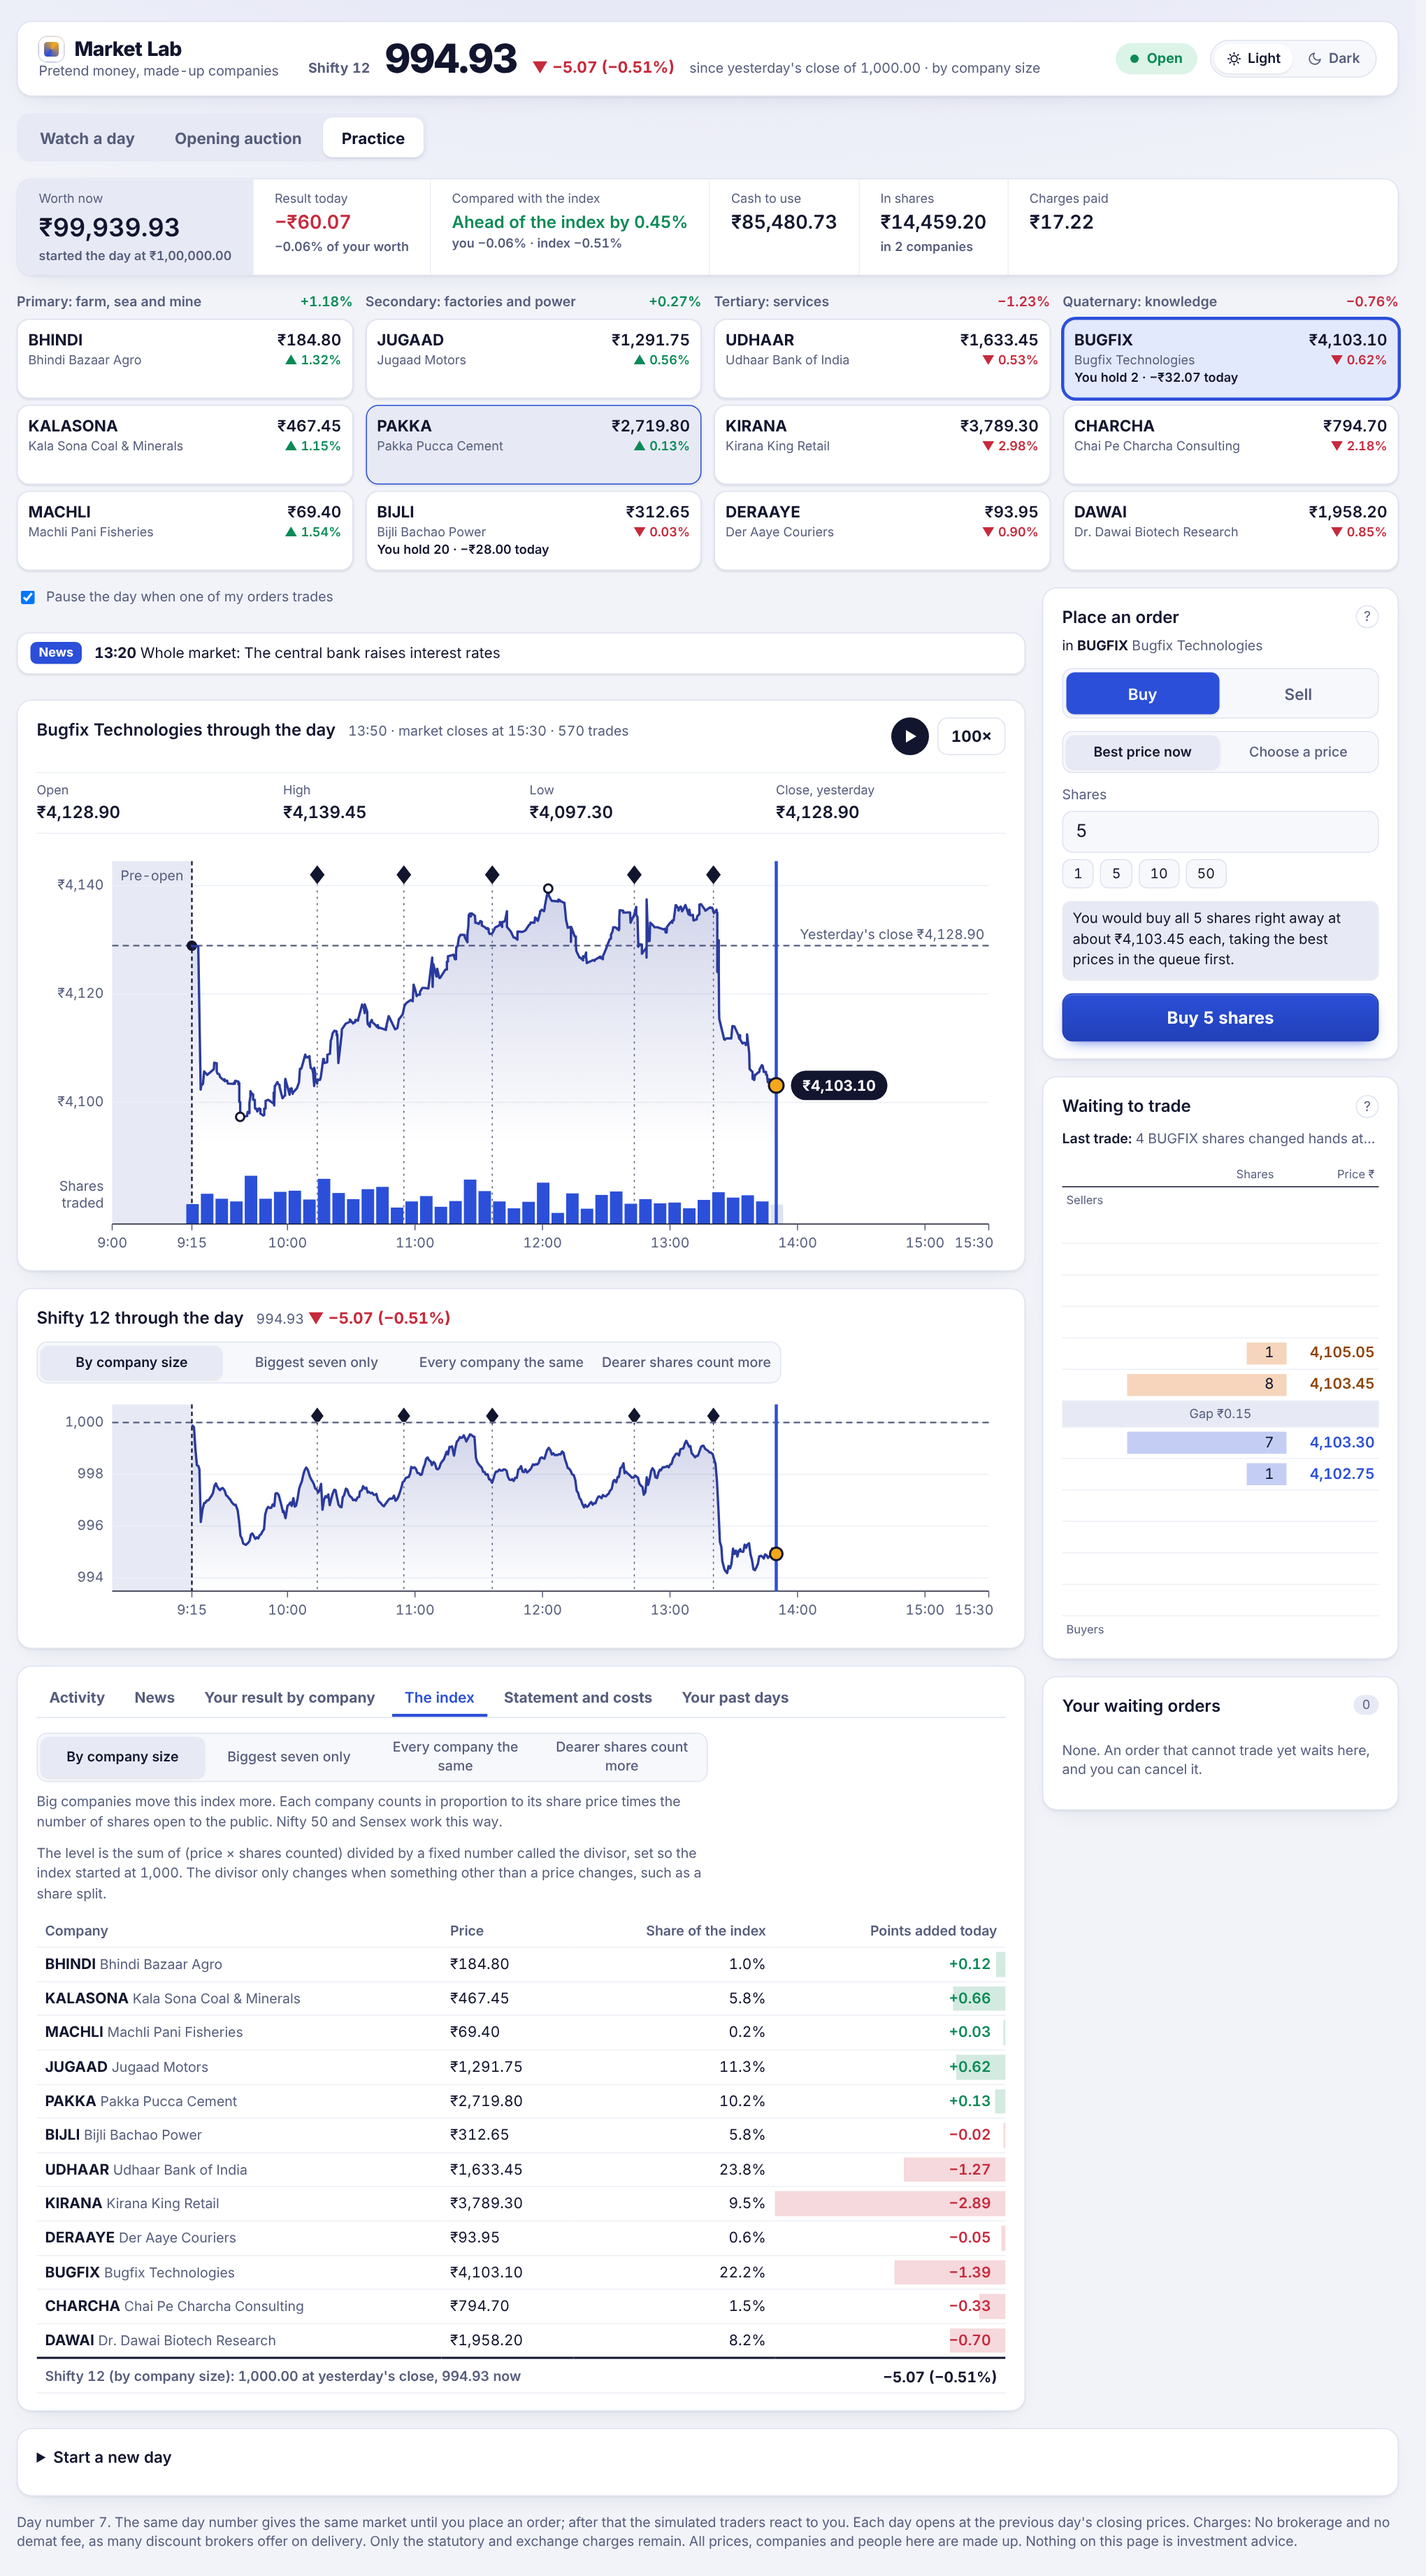
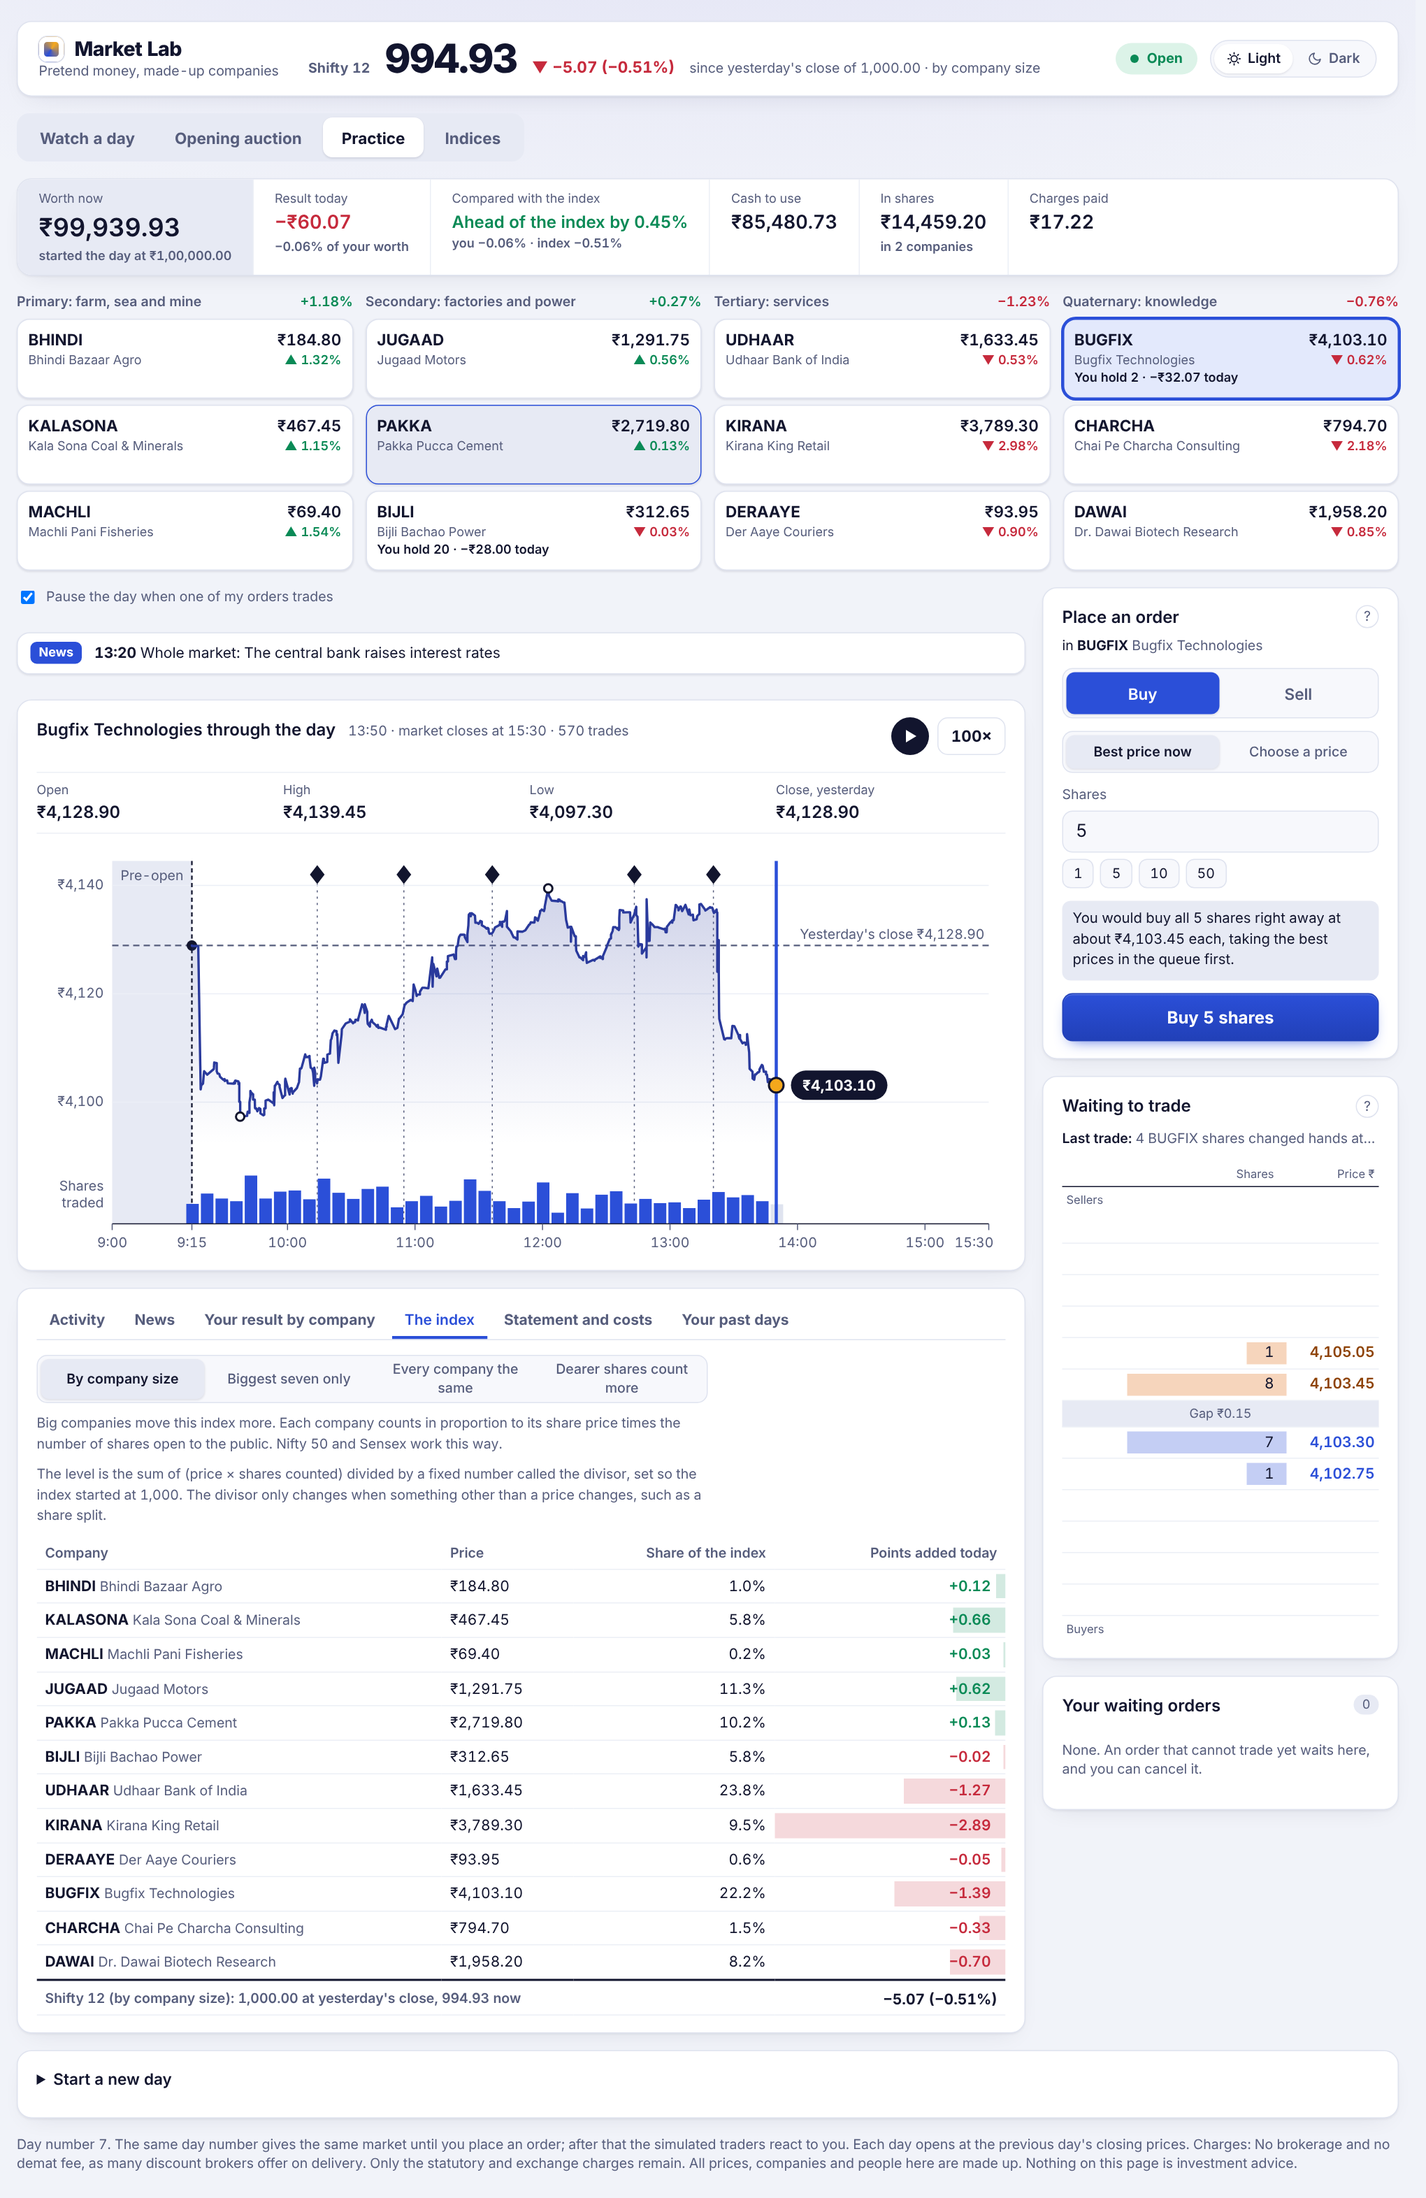
Add Shifty 12 chart and Shifty 7 index 2

diff --git a/web/src/components/PracticeView.tsx b/web/src/components/PracticeView.tsx
@@ -2,7 +2,6 @@ import { ReactNode, useEffect, useMemo, useRef, useState } from "react";
 import { ActivityItem, myActivity } from "../lib/activity";
 import { fold } from "../lib/market";
 import { tradeSeries } from "../lib/series";
-import { useIndexLine } from "../lib/useIndexLine";
 import { useStatement } from "../lib/useStatement";
 import { useDays } from "../lib/useDays";
 import { useWorld } from "../lib/useWorld";
@@ -20,7 +19,6 @@ import { MarketBoard } from "./MarketBoard";
 import { headlineOf, NewsPanel, NewsTicker } from "./NewsPanel";
 import { OpenOrders } from "./OpenOrders";
 import { OrderTicket } from "./OrderTicket";
-import { IndexChart } from "./IndexChart";
 import { PriceChart } from "./PriceChart";
 import { StatementPanel } from "./StatementPanel";
 import { WorldHeader } from "./WorldHeader";
@@ -161,7 +159,6 @@ export function PracticeView({ tabs, active, world }: { tabs: ReactNode; active:
   const state = useMemo(() => fold(events[symbol] ?? []), [version, symbol]); // eslint-disable-line react-hooks/exhaustive-deps
   const trades = useMemo(() => tradeSeries(events[symbol] ?? []), [version, symbol]); // eslint-disable-line react-hooks/exhaustive-deps
   const owner = snapshot?.owner ?? "";
-  const indexLine = useIndexLine(events, version, world.factors, snapshot, kind);
   const mine = useMemo<ActivityItem[]>(() => {
     const all: ActivityItem[] = [];
     [...touched].forEach((s, i) => {
@@ -273,18 +270,6 @@ export function PracticeView({ tabs, active, world }: { tabs: ReactNode; active:
                 onSpeed={world.setSpeed}
                 onAuction={() => undefined}
                 onBiggest={() => undefined}
-              />
-              <IndexChart
-                name={indexTitle(snapshot, kind)}
-                kind={kind}
-                onKind={setKind}
-                line={indexLine}
-                open={snapshot.indices[kind].open}
-                level={snapshot.indices[kind].level}
-                nowUs={snapshot.now}
-                durationUs={snapshot.close_at}
-                preOpenUs={snapshot.open_at}
-                news={snapshot.news}
               />
               <Activity
                 mine={mine}

diff --git a/README.md b/README.md
@@ -308,7 +308,7 @@ are in [SPEC.md](SPEC.md).
 
 ## Phase 3: a market of twelve companies
 
-![The Practice tab with the Shifty 12 chart under the company chart, and the index table showing how each company moved it](docs/img/market-index.png)
+![The Practice tab with the index table showing how each company moved it](docs/img/market-index.png)
 
 ![The Indices tab: Shifty 12 and Shifty 7 side by side, a large chart, and what moved each](docs/img/indices-view.png)
 
@@ -319,7 +319,7 @@ previous day's closing prices.
 
 The **Shifty 12** index is worked out with the real formula: the sum of price times shares open to the public, divided by
 a fixed divisor. You can switch between by-company-size (Nifty, Sensex), every-company-the-same, and the Dow-style
-dearer-shares-count-more, and a fourth, **Shifty 7**, which mimics the Sensex: the same formula over only the seven biggest companies, starting at 100 (the Sensex holds the 30 biggest, Nifty 50 holds 50; the seven are fixed here, while the real ones are reviewed twice a year). The Practice tab draws the chosen index through the day under the company chart, and a separate **Indices** tab is only about the two (Shifty 12 and Shifty 7): a large chart, the high and low so far, what each company added, the four sectors, and the news. The divisor logic is tested with a share split. Your result is shown company by company
+dearer-shares-count-more, and a fourth, **Shifty 7**, which mimics the Sensex: the same formula over only the seven biggest companies, starting at 100 (the Sensex holds the 30 biggest, Nifty 50 holds 50; the seven are fixed here, while the real ones are reviewed twice a year). The Practice tab keeps the index in the header and your result against it, and a separate **Indices** tab is only about the two (Shifty 12 and Shifty 7): a large chart through the day, the high and low so far, what each company added, the four sectors, and the news. The divisor logic is tested with a share split. Your result is shown company by company
 (locked in, on paper, charges, net) and against the index.
 
 ![The Practice tab: chart, order ticket, price ladder, your orders and what each trade cost](docs/img/practice-light.png)

diff --git a/SPEC.md b/SPEC.md
@@ -459,7 +459,7 @@ worker is down, restarts dead workers, and stops them when it stops (including w
 parent). The suite runs on both databases (`MARKETLAB_TEST_PG`, `MARKETLAB_EXAMPLES_SCALE`), with CI jobs for both.
 Measured on a 2-core machine: see `docs/LOADTEST.md`, including what it could not show.
 
-26. **The index through the day:** the Practice tab draws the selected index under the company chart. The server sends,
+26. **The index through the day:** the index is drawn through the day (first under the company chart on Practice, later moved to the Indices screen, item 28). The server sends,
 once at the start of a day, `index_factors` (for each index, what one paise of each company's price is worth in
 hundredths of a point: q_i x 100 / divisor). The page keeps a running sum over the trades it already holds, so the line
 costs no extra requests. A test checks that the factors redraw the server's exact level at the open and mid-day; the
